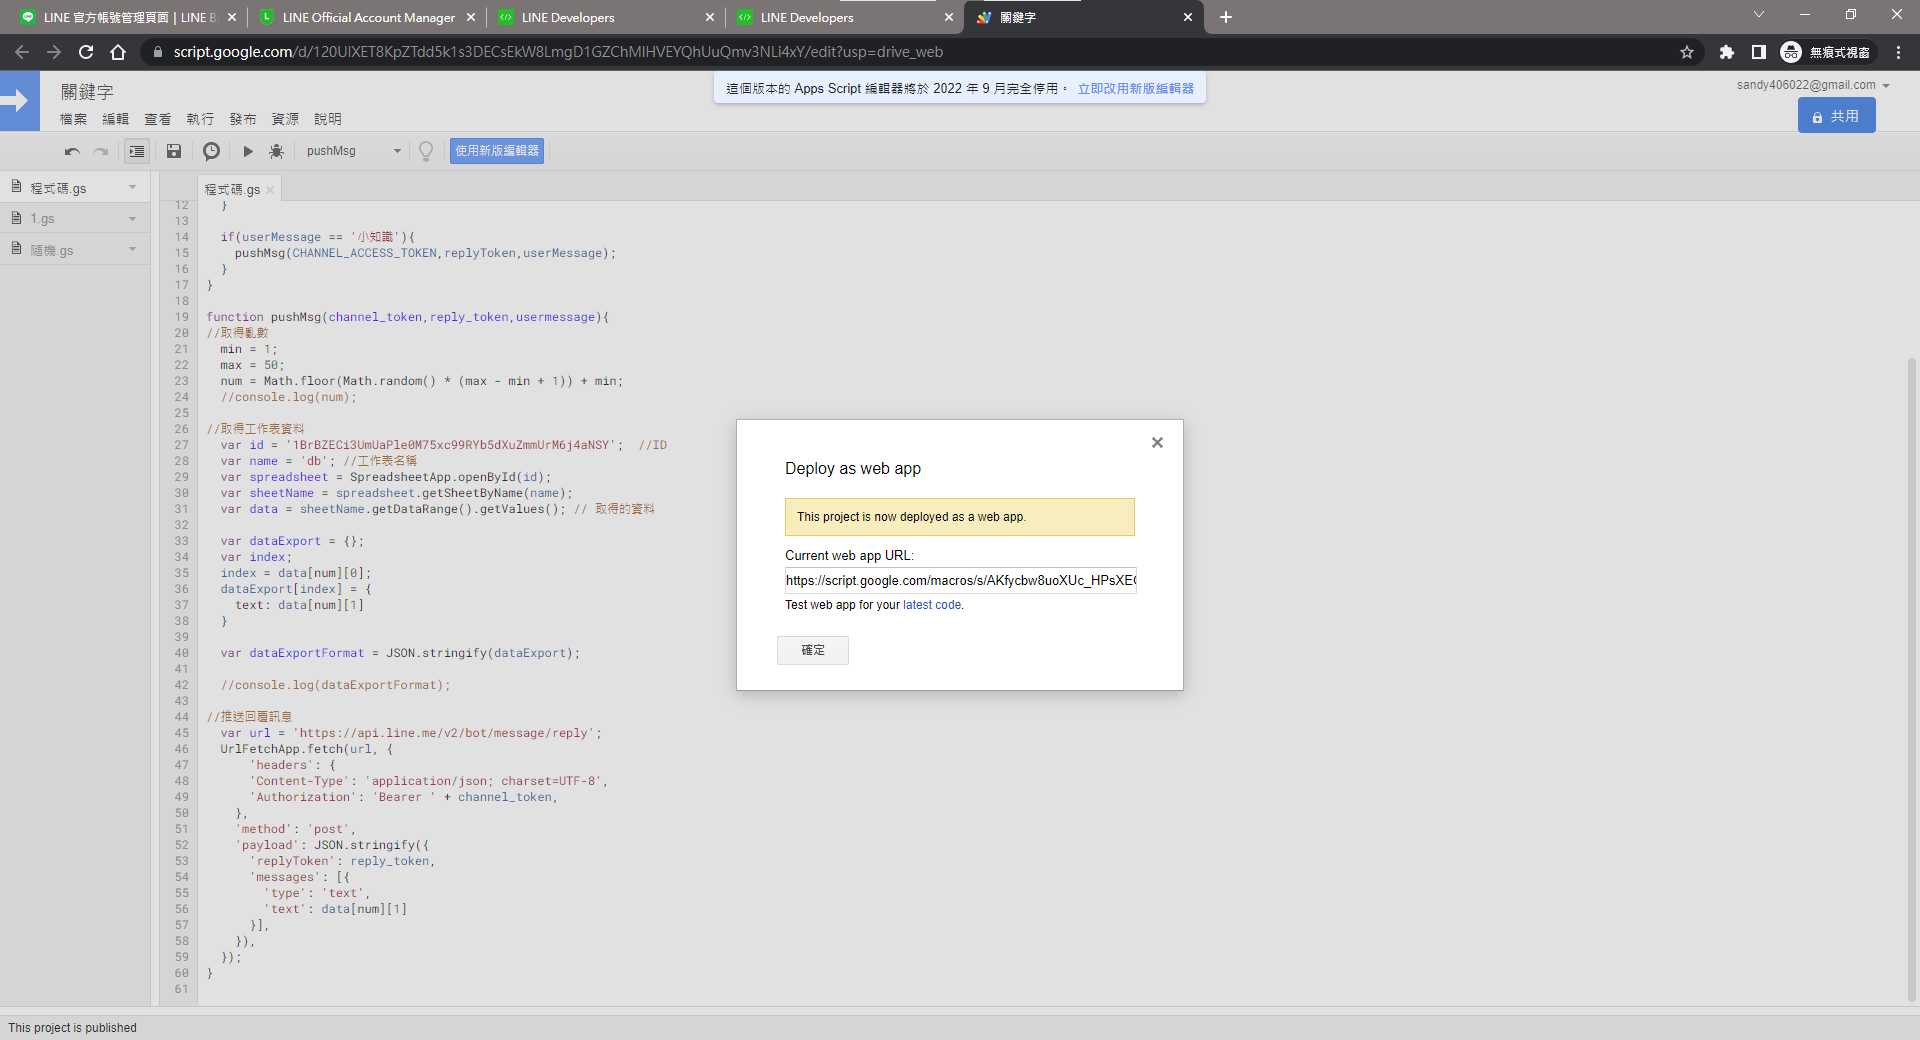
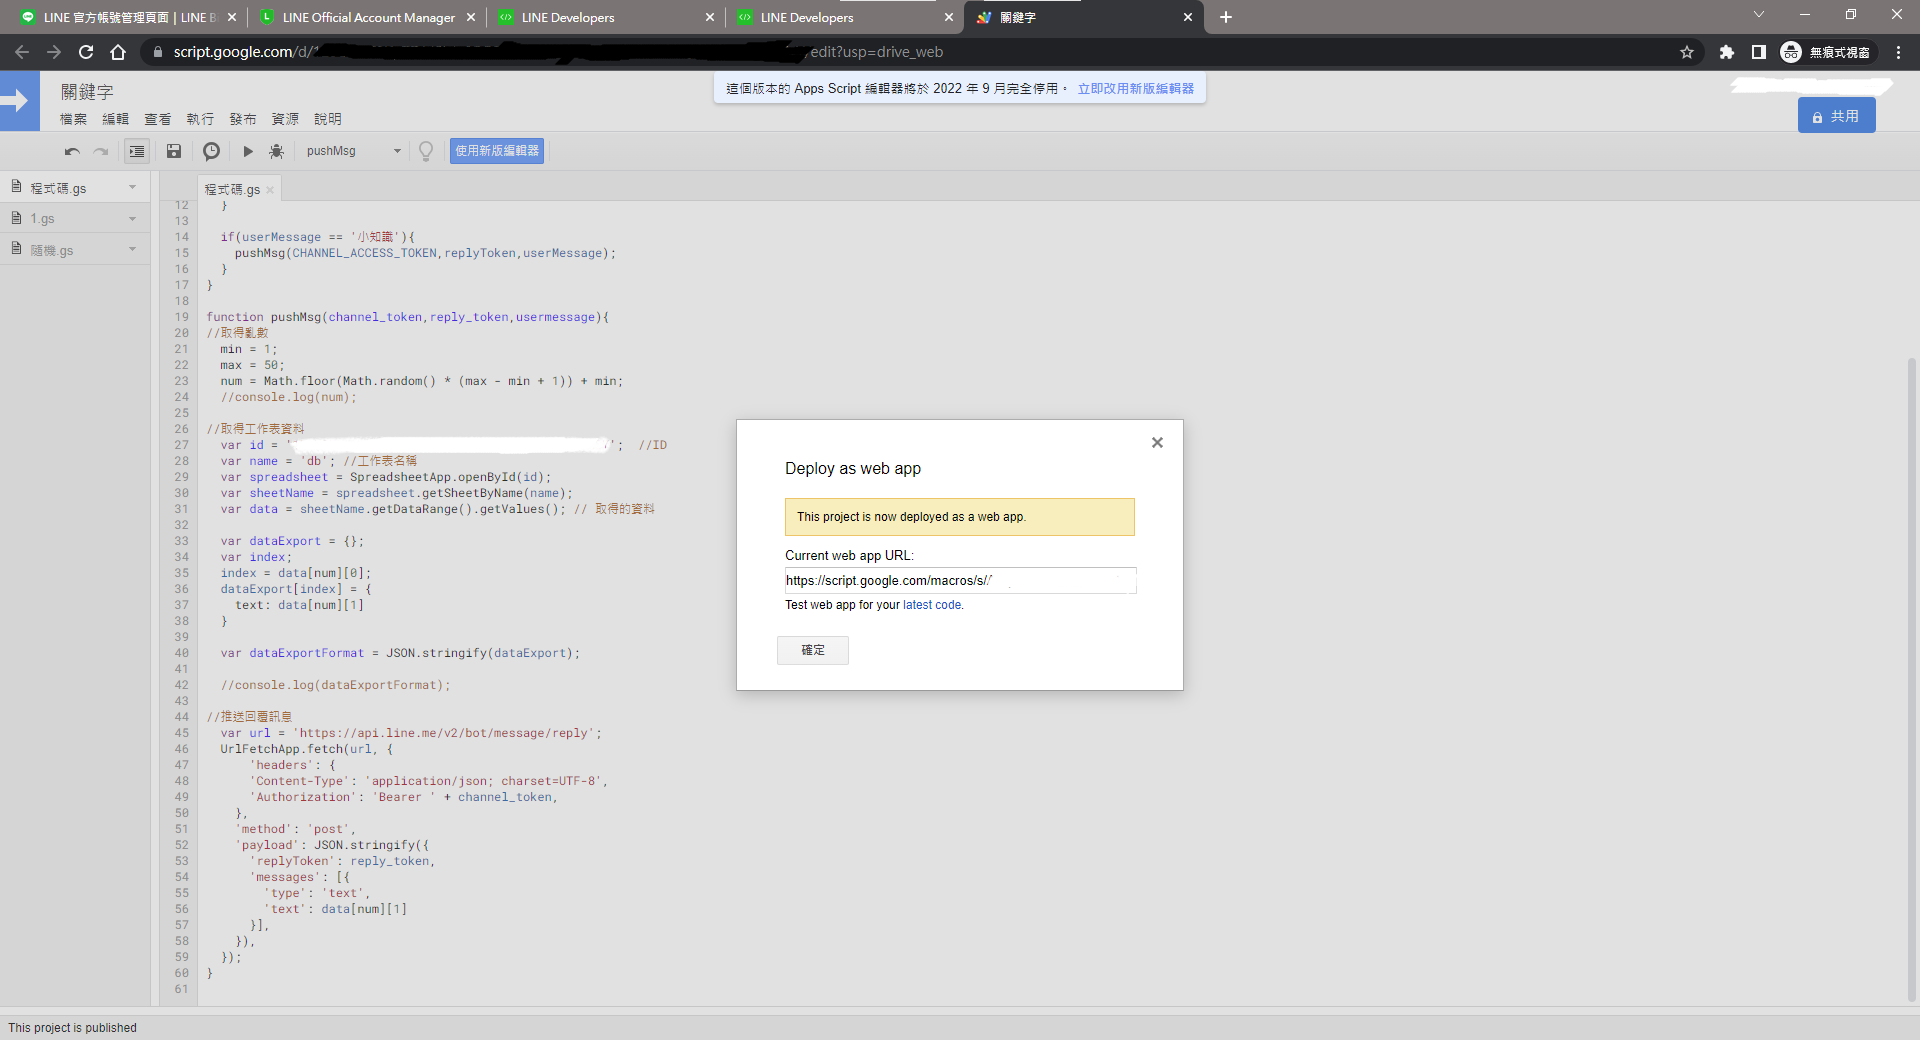
img

diff --git a/source/_posts/20220906.md b/source/_posts/20220906.md
@@ -3,6 +3,9 @@ title: 指令紀錄
 date: 2022-09-06 10:46:03
 tags:
 ---
+紀錄每次基本上會使用到的指令
+供腦容量不足的我可勾起回憶
+<!--more-->
 
 ### 發布
 ```
@@ -27,4 +30,114 @@ git commit -m "內容"
 git branch -M main
 
 git push origin main --force
+```
+
+### 下載Project至別台電腦
+```
+npm install hexo-cli -g
+
+git clone -b main https://github.com/3618321s/Project.git
+```
+
+### Next 修改部分
+```
+# If not defined, `author` from Hexo `_config.yml` will be used.
+copyright: 3618321s  <----> 修改部分
+
+# Powered by Hexo & NexT
+powered: false  <----> 修改部分
+
+# ---------------------------------------------------------------
+# Scheme Settings
+# ---------------------------------------------------------------
+
+# Schemes
+#scheme: Muse
+scheme: Mist  <----> 使用此方式
+#scheme: Pisces
+#scheme: Gemini
+
+tags: /tags/ || fa fa-tags  <-----> 取消註記
+categories: /categories/ || fa fa-th  <-----> 取消註記
+連結: /links/ || fa fa-link  <-----> 新增頁面
+
+# Enable / Disable menu icons / item badges.
+menu_settings:
+  icons: true
+  badges: true  <----> 修改部分
+
+
+# Sidebar Display (only for Muse | Mist), available values:
+  #  - post    expand on posts automatically. Default.
+  #  - always  expand for all pages automatically.
+  #  - hide    expand only when click on the sidebar toggle icon.
+  #  - remove  totally remove sidebar including sidebar toggle.
+  display: hide  <----> 修改部分
+
+# Blog rolls
+links_settings:
+  icon: fa fa-link
+  title: Links
+  # Available values: block | inline
+  layout: inline  <----> 修改部分
+
+# Post wordcount display settings
+# Dependencies: https://github.com/theme-next/hexo-symbols-count-time
+symbols_count_time:
+  symbols: true # 文章是否顯示字數統計 <----> 修改部分
+  separated_meta: true
+  item_text_post: true
+  item_text_total: false
+
+codeblock:
+  # Code Highlight theme
+  # Available values: normal | night | night eighties | night blue | night bright | solarized | solarized dark | galactic
+  # See: https://github.com/chriskempson/tomorrow-theme
+  highlight_theme: night eighties  <----> 修改部分
+  # Add copy button on codeblock
+  copy_button:
+    enable: true <----> 修改部分
+    # Show text copy result.
+    show_result: false
+    # Available values: default | flat | mac
+    style:
+
+back2top:
+  enable: true
+  # Back to top in sidebar.
+  sidebar: false
+  # Scroll percent label in b2t button.
+  scrollpercent: true <----> 修改部分
+
+# Reading progress bar
+reading_progress:
+  enable: true <----> 修改部分
+  # Available values: top | bottom
+  position: top
+  color: "#37c6c0"
+  height: 3px
+
+# Local Search
+# Dependencies: https://github.com/theme-next/hexo-generator-searchdb
+local_search:
+  enable: true  <----> 修改部分
+  # If auto, trigger search by changing input.
+  # If manual, trigger search by pressing enter key or search button.
+  trigger: auto
+  # Show top n results per article, show all results by setting to -1
+  top_n_per_article: 1
+  # Unescape html strings to the readable one.
+  unescape: false
+  # Preload the search data when the page loads.
+  preload: false
+
+# Progress bar in the top during page loading.
+# Dependencies: https://github.com/theme-next/theme-next-pace
+# For more information: https://github.com/HubSpot/pace
+pace:
+  enable: true <----> 修改部分
+  # Themes list:
+  # big-counter | bounce | barber-shop | center-atom | center-circle | center-radar | center-simple
+  # corner-indicator | fill-left | flat-top | flash | loading-bar | mac-osx | material | minimal
+  theme: pace-theme-loading-bar <----> 修改部分
 ```

diff --git a/source/_posts/20220905.md b/source/_posts/20220905.md
@@ -23,9 +23,7 @@ tags:
 
 #### google sheet建立
 使用google試算表，建立知識點清單。
-
-如下圖，第一欄為索引，第二欄為知識點。
-<img src="../img/googlesheet.png" width="100%" />
+第一欄為索引，第二欄為知識點。
 接著共用此工作表，有此連結者皆可以編輯此資料表。
 https://docs.google.com/spreadsheets/d/{SheetID}/edit?usp=sharing
 {SheetID}為此工作表ID
@@ -36,7 +34,7 @@ https://docs.google.com/spreadsheets/d/{SheetID}/edit?usp=sharing
 程式碼如下
 ```
 function doPost(e) {
[1 lines of base64/hex data omitted]
+  var CHANNEL_ACCESS_TOKEN = 'LINE TOKEN'; //取得LINE CHANNEL_ACCESS_TOKEN
   var msg= JSON.parse(e.postData.contents);
   //console.log(msg);
   
@@ -61,7 +59,7 @@ function pushMsg(channel_token,reply_token,usermessage){
   //console.log(num);
 
 //取得工作表資料
-  var id = '1BrBZECi3UmUaPle0M75xc99RYb5dXuZmmUrM6j4aNSY';  //SheetID
+  var id = '工作表ID';  //SheetID
   var name = 'db'; //工作表名稱
   var spreadsheet = SpreadsheetApp.openById(id);  
   var sheetName = spreadsheet.getSheetByName(name);  
